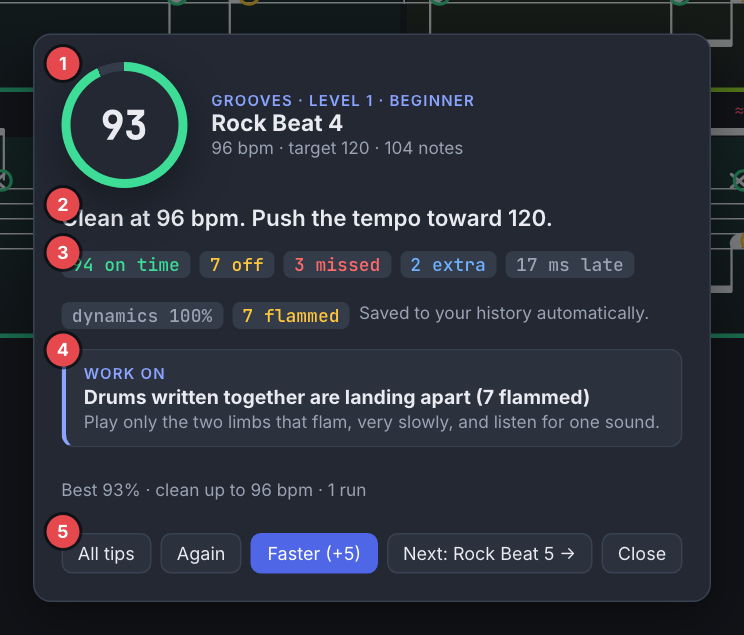
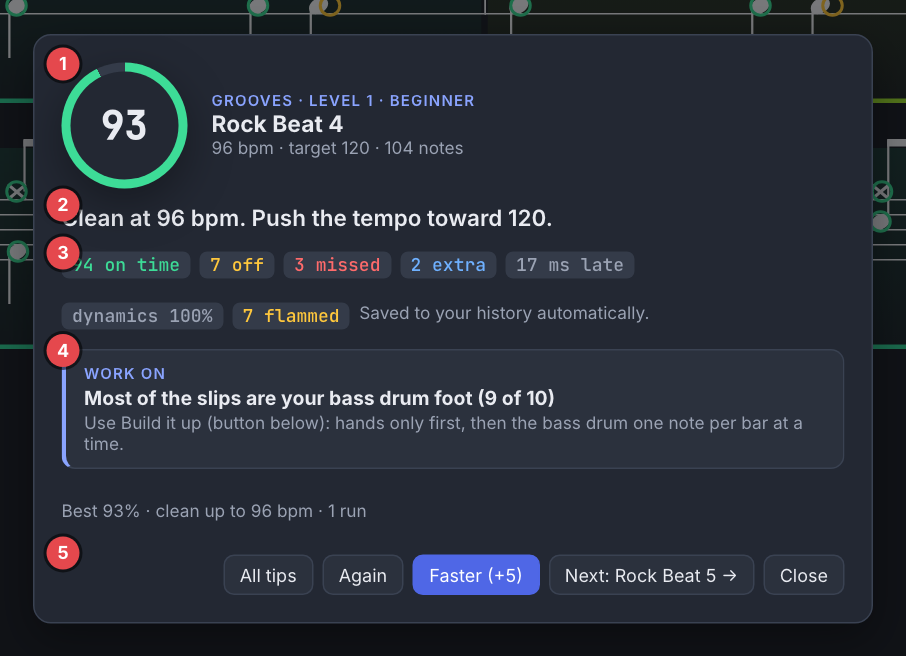
DrumCoach 1.15.0

Changed region(s): [[0.0, 0.0, 1.0, 0.9575]]

diff --git a/README.md b/README.md
@@ -10,15 +10,17 @@ written notes as you play.
   </a>
 </p>
 
-Version 1.14.0 · free · for Macs with Apple silicon (M1 or later) ·
+Version 1.15.0 · free · for Macs with Apple silicon (M1 or later) ·
 signed and notarized by Apple · [all versions](https://github.com/meolsen/drumcoach/releases)
 
 ![DrumCoach after a run: the graded lesson, the lesson list and the live score](img/overview.png)
 
 ## What it does
 
-- **208 lessons** in three strands: rudiments and hand studies, grooves, and
-  fills, in five levels from first week to advanced.
+- **234 lessons** in four strands: rudiments and hand studies, feet and
+  independence drills, grooves, and fills, in five levels from first week to advanced.
+- **Build it up.** A groove that will not come together can be played one layer at a
+  time: hi-hat first, then the snare, then the bass drum a note at a time.
 - **Grades every hit.** A green ring is on time, a yellow ring is early or
   late and shows which, a red note was missed, a blue ring is a stray hit.
   Each bar gets its own score.
